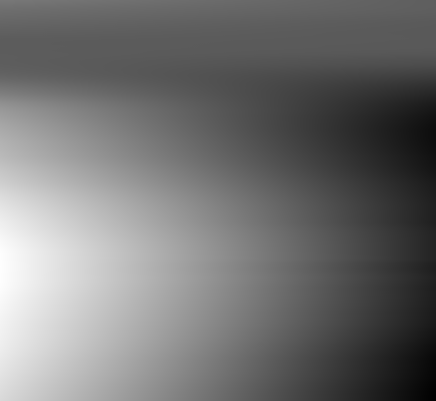
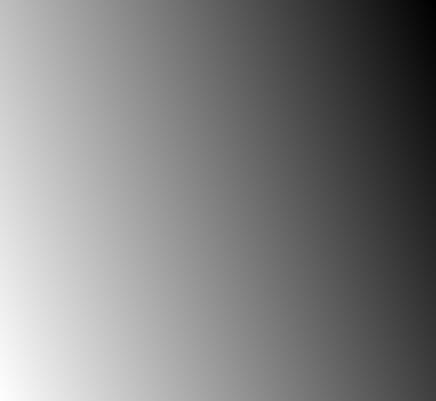
Maybe fixed detrend

diff --git a/src/test.py b/src/test.py
@@ -19,42 +19,29 @@ class TestTopoCurve(unittest.TestCase):
         self.assertIsInstance(topo_curve_obj.metadata, dict)  # Check if metadata is a dictionary
         # Add more assertions to check specific metadata if needed
         import unittest
-    '''
-    def test_curve_calc_with_known_input(self):
-        # Known input data
-        ZFilt = np.array([[1, 2, 3],
-                          [4, 5, 6],
-                          [7, 8, 9]])
+    def test_CurveCalc(self):
+        dem = TopoCurve("references\DEM_files\Purgatory.tif")
+        # Define test inputs
+        ZFilt = np.array([[1, 2],[3,4]])
         dx = 1.0
         dy = 1.0
         kt = 0
 
-        # Manually compute the expected output
-        expected_K1 = np.array([[],
-                                [],
-                                []])
-        expected_K2 = np.array([[],
-                                [],
-                                []])
-        expected_KM = np.array([[],
-                                [],
-                                []])
-        expected_KG = np.array([[],
-                                [],
-                                []])
+        # Call the function
+        result = dem.CurveCalc (ZFilt, dx, dy, kt)
 
-        # Initialize a TopoCurve object
-        topo_curve_obj = TopoCurve("references\DEM_files\Purgatory.tif")
+        # Define the expected output values
+        expected_K1 = np.array([[0.0,0.0], [0.0, 0.0]])
+        expected_K2 = np.array([[0.0,0.0], [0.0, 0.0]])
+        expected_KM = np.array([[0.0,0.0], [0.0, 0.0]])
+        expected_KG = np.array([[0.0,0.0], [0.0, 0.0]])
 
-        # Call the CurveCalc method with the known input data
-        K1, K2, KM, KG = topo_curve_obj.CurveCalc(ZFilt, dx, dy, kt)
+        # Check if the actual output matches the expected output
+        np.testing.assert_array_almost_equal(result[0], expected_K1)
+        np.testing.assert_array_almost_equal(result[1], expected_K2)
+        np.testing.assert_array_almost_equal(result[2], expected_KM)
+        np.testing.assert_array_almost_equal(result[3], expected_KG)
 
-        # Assert that the method returns the expected principal curvatures and curvature features
-        np.testing.assert_array_equal(K1, expected_K1)
-        np.testing.assert_array_equal(K2, expected_K2)
-        np.testing.assert_array_equal(KM, expected_KM)
-        np.testing.assert_array_equal(KG, expected_KG)
-    '''
     def test_initialization_inherits_metadata(self):
         # Mock the TopoCurve initialization to return metadata
         mock_metadata = {'GeogAngularUnitsGeoKey': 4326, 'ProjLinearUnitsGeoKey': 9001}  # Example metadata
@@ -140,7 +127,7 @@ class TestTopoCurve(unittest.TestCase):
         # Verify that the Tukey window is correctly applied
         self.assertEqual(tukey_array.shape, expected_tukey_array.shape)
         self.assertTrue(np.allclose(tukey_array, expected_tukey_array))
-    
+    '''
     def test_padding_method(self):
         # Mock the SpectralFiltering object
         spec_filt_obj = SpectralFiltering("references\DEM_files\Purgatory.tif")
@@ -169,10 +156,33 @@ class TestTopoCurve(unittest.TestCase):
         self.assertEqual(padded_array.shape, expected_padded_array.shape)
         self.assertTrue(np.array_equal(padded_array, expected_padded_array))
         
-    '''
+    def test_lowpass_filter(self):
+        your_instance = YourClass()  # Initialize your class instance
+        # Set up inputs for testing lowpass filter
+        filter_val = 0.5
+        filter_type = 'lowpass'
+        alpha_in = 0.2
+
+        # Call FFT method with lowpass filter
+        dx_0, dx_1, Z_filt = your_instance.FFT(filter_val, filter_type, alpha_in)
+
+        # Assert if the returned values are of correct types
+        self.assertIsInstance(dx_0, float)
+        self.assertIsInstance(dx_1, float)
+        self.assertIsInstance(Z_filt, np.ndarray)
+
+        # Assert if the returned values are not None
+        self.assertIsNotNone(dx_0)
+        self.assertIsNotNone(dx_1)
+        self.assertIsNotNone(Z_filt)
+
+        # Assert if the filtered values shape matches the expected shape
+        expected_shape = (your_instance.dim_x, your_instance.dim_y)
+        self.assertEqual(Z_filt.shape, expected_shape)
+   '''
     def test_fft_method_lowpass(self):
         # Mocked elevation values
-        mocked_elevation_values = np.array([[1, 2], [3, 4]])
+        mocked_elevation_values = np.array([[1, 2, 3], [4, 5, 6],  [7, 8, 9]])
 
         # Expected lowpass filtered elevation values
         expected_filtered_values_lowpass = np.array([
@@ -185,19 +195,22 @@ class TestTopoCurve(unittest.TestCase):
         spec_filt_obj = SpectralFiltering("references\DEM_files\Purgatory.tif")
 
         # Manually set necessary attributes
-        spec_filt_obj.dimx_ma = 3
-        spec_filt_obj.dimy_ma = 3
-        spec_filt_obj.dx = np.array([1.0, 1.0] )
+        spec_filt_obj.dim_x = 3
+        spec_filt_obj.dim_y = 3
+        spec_filt_obj.dx = np.array([1.0, 1.0])
         spec_filt_obj.powerOfTwo = 4  # Assuming this is the correct powerOfTwo value for the mocked elevation values
+        spec_filt_obj.z_array = mocked_elevation_values
+        spec_filt_obj.plane = np.zeros_like(mocked_elevation_values)  # Assuming plane attribute should be zeros for this test
 
         # Call FFT method with lowpass filtering
-        dx, dy, filtered_values_lowpass = spec_filt_obj.FFT(filter=(1, 5), filterType='lowpass', alphaIn=0.5)
+        dx, dy, filtered_values_lowpass = spec_filt_obj.FFT(filter=[1, 5], filterType='lowpass', alphaIn=0.5)
 
         # Verify that the lowpass filtered elevation values are computed correctly
         self.assertAlmostEqual(dx, 1.0)
         self.assertAlmostEqual(dy, 1.0)
         np.testing.assert_allclose(filtered_values_lowpass, expected_filtered_values_lowpass, rtol=1e-5)
 
+    '''
     def test_fft_method_highpass(self):
         # Mocked elevation values
         mocked_elevation_values = np.array([[1, 2], [3, 4]])

diff --git a/src/SpectralFiltering.py b/src/SpectralFiltering.py
@@ -5,6 +5,7 @@ from scipy.fft import fft2, ifft2
 from photutils.psf import TukeyWindow
 from scipy import signal
 from TopoCurve import TopoCurve
+from sklearn.linear_model import LinearRegression
 
 class SpectralFiltering (TopoCurve):
     """
@@ -35,15 +36,41 @@ class SpectralFiltering (TopoCurve):
 
     def detrend(self):  # Define a method to detrend elevation values
         """
-        Detrend the elevation values.
+        Detrend the elevation values using least squares plane fitting.
 
         Returns:
             Z_detrended (numpy.ndarray): Detrended elevation values.
             plane (numpy.ndarray): Trend component of the elevation values.
         """
-        self.Z_detrended = signal.detrend(self.z_array)  # Detrend the elevation values
-        self.plane = self.z_array - self.Z_detrended  # Calculate the trend component
+        # Convert to NumPy array if not already
+        z_array = np.array(self.z_array)
+
+        # Create meshgrid for coordinates
+        x, y = np.meshgrid(np.arange(z_array.shape[1]), np.arange(z_array.shape[0]))
+        
+        # Flatten coordinates and elevation values
+        x_flat = x.flatten()
+        y_flat = y.flatten()
+        z_flat = z_array.flatten()
+
+        # Fit a plane using linear regression
+        model = LinearRegression().fit(np.column_stack((x_flat, y_flat)), z_flat)
+
+        # Predict plane values
+        plane_values = model.predict(np.column_stack((x_flat, y_flat)))
+
+        # Reshape plane values back to 2D
+        plane = plane_values.reshape(z_array.shape)
+
+        # Calculate detrended values
+        Z_detrended = z_array - plane
+
+        # Save detrended values and plane
+        self.Z_detrended = Z_detrended
+        self.plane = plane
+
         return self.Z_detrended, self.plane  # Return the detrended values and the trend component
+
     def mirror_dem(self):  # Define a method to mirror elevation values
         """
         Mirror the elevation values.

diff --git a/src/code_play.py b/src/code_play.py
@@ -1,5 +1,6 @@
 from TopoCurve import TopoCurve
 from SpectralFiltering import SpectralFiltering
+#pip install scikit-learn
 
 # Instantiate TopoCurve object with a GeoTIFF file
 dem = TopoCurve('references\DEM_files\Purgatory.tif')
@@ -16,7 +17,7 @@ K1, K2, KM, KG = dem.CurveCalc(filtered_elevation, dx, dy, 0)
 print(K1, K2, KM, KG)
 
 # Plot and save elevation values
-dem.plot(filtered_elevation, 'output_image.png')
+dem.plot(filtered_elevation, 'output_image1.png')
 
 dx, dy, ZFilt = spectral_filter.FFT([90,100], "lowpass", 0.5)
 dem.plot(ZFilt, "fftdem.png")
